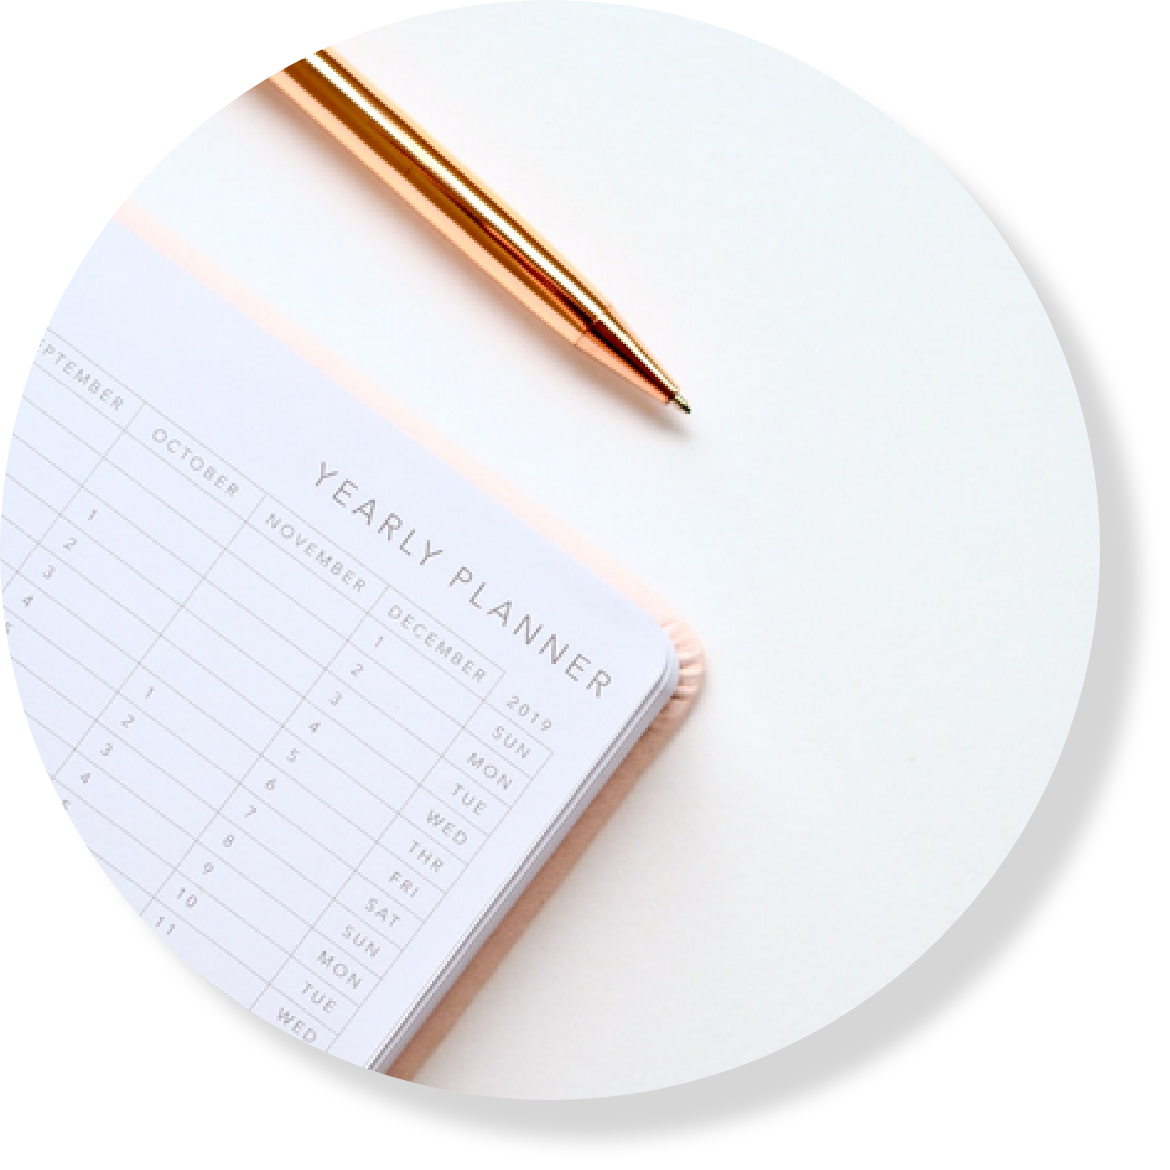
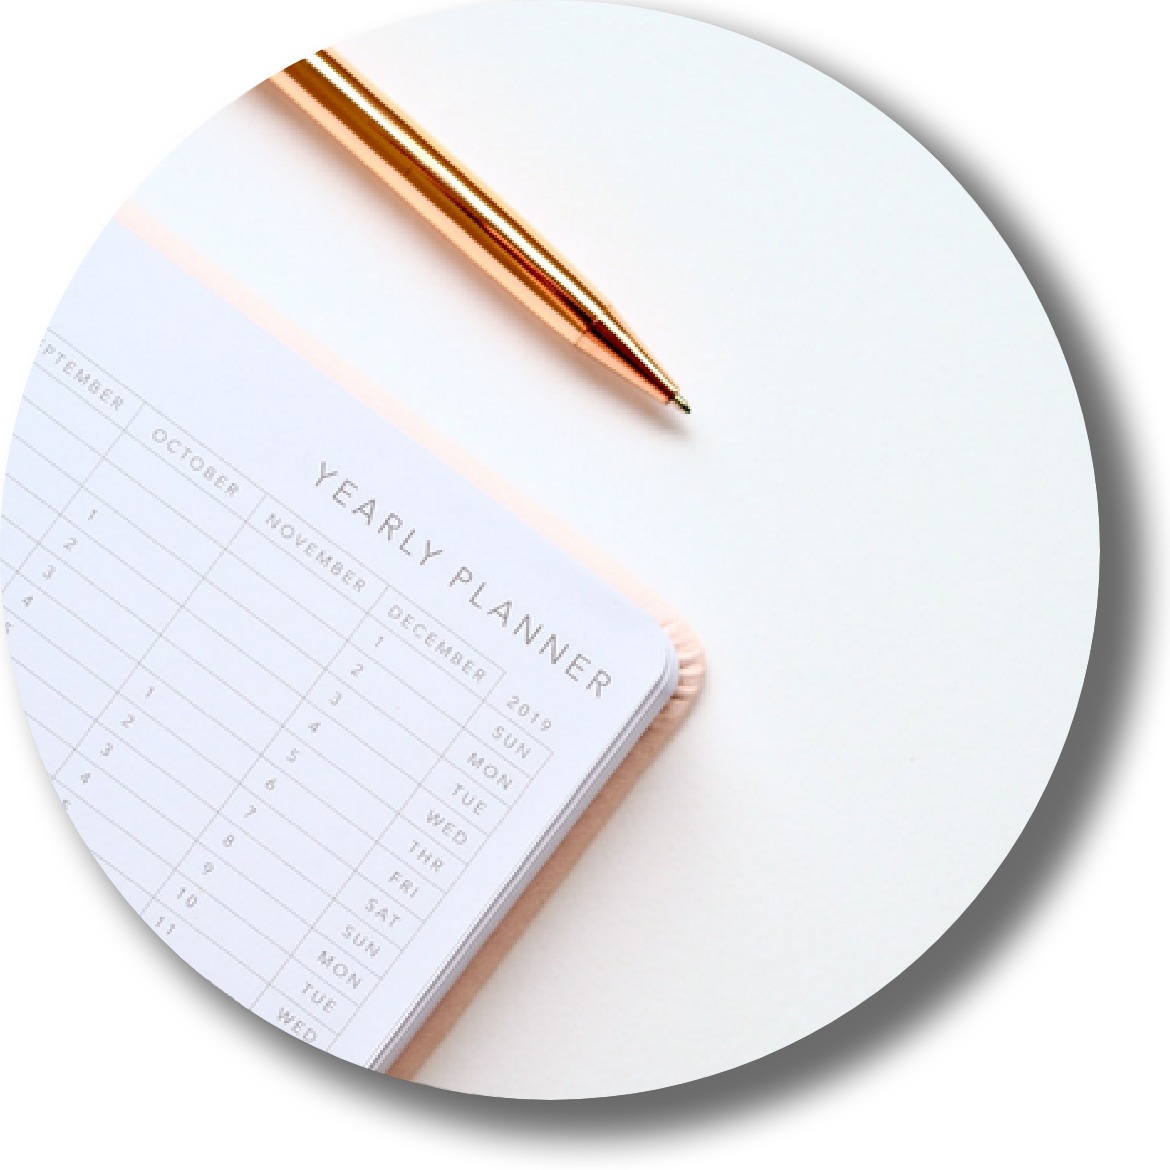
cc

diff --git a/client/src/components/Main/ClassicHome.css b/client/src/components/Main/ClassicHome.css
@@ -107,16 +107,20 @@
 .homeIntros-Image {
   margin-top: 5%;
   border-radius: 280px;
-  width: 50%;
-  height: 750px;
-  max-width: 100%;
-  background-image: url("/public/image@3x.png");
+  /* width: 10px; */
+  height: 70dvh;
+  /* max-width: 100%; */
+  background-image: url("../shared/images/image@3x.png");
   background-size: contain;
   background-repeat: no-repeat;
   background-position: left;
   font-family: var(--font-arial);
   flex-grow: 1;
   flex-shrink: 3;
+  /* border: 10px solid darkgray; */
+  /* border-color: darkgray; */
+  /* border-style: solid; */
+  /* box-shadow: 5px 10px #888888; */
 }
 /* end of flex container */
 
